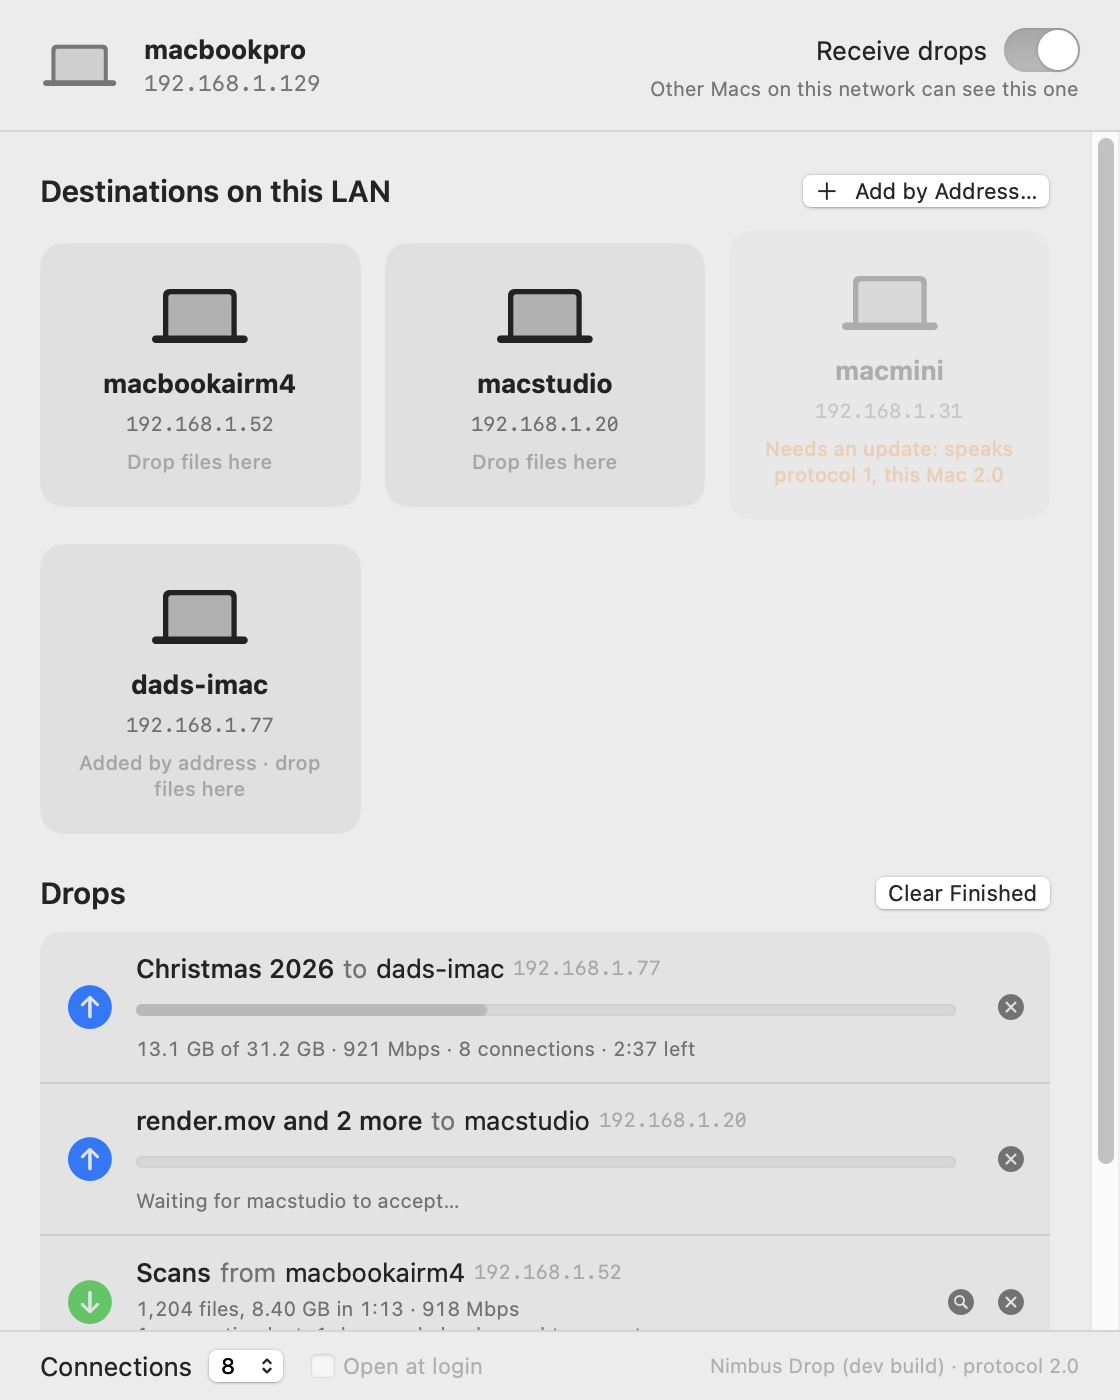
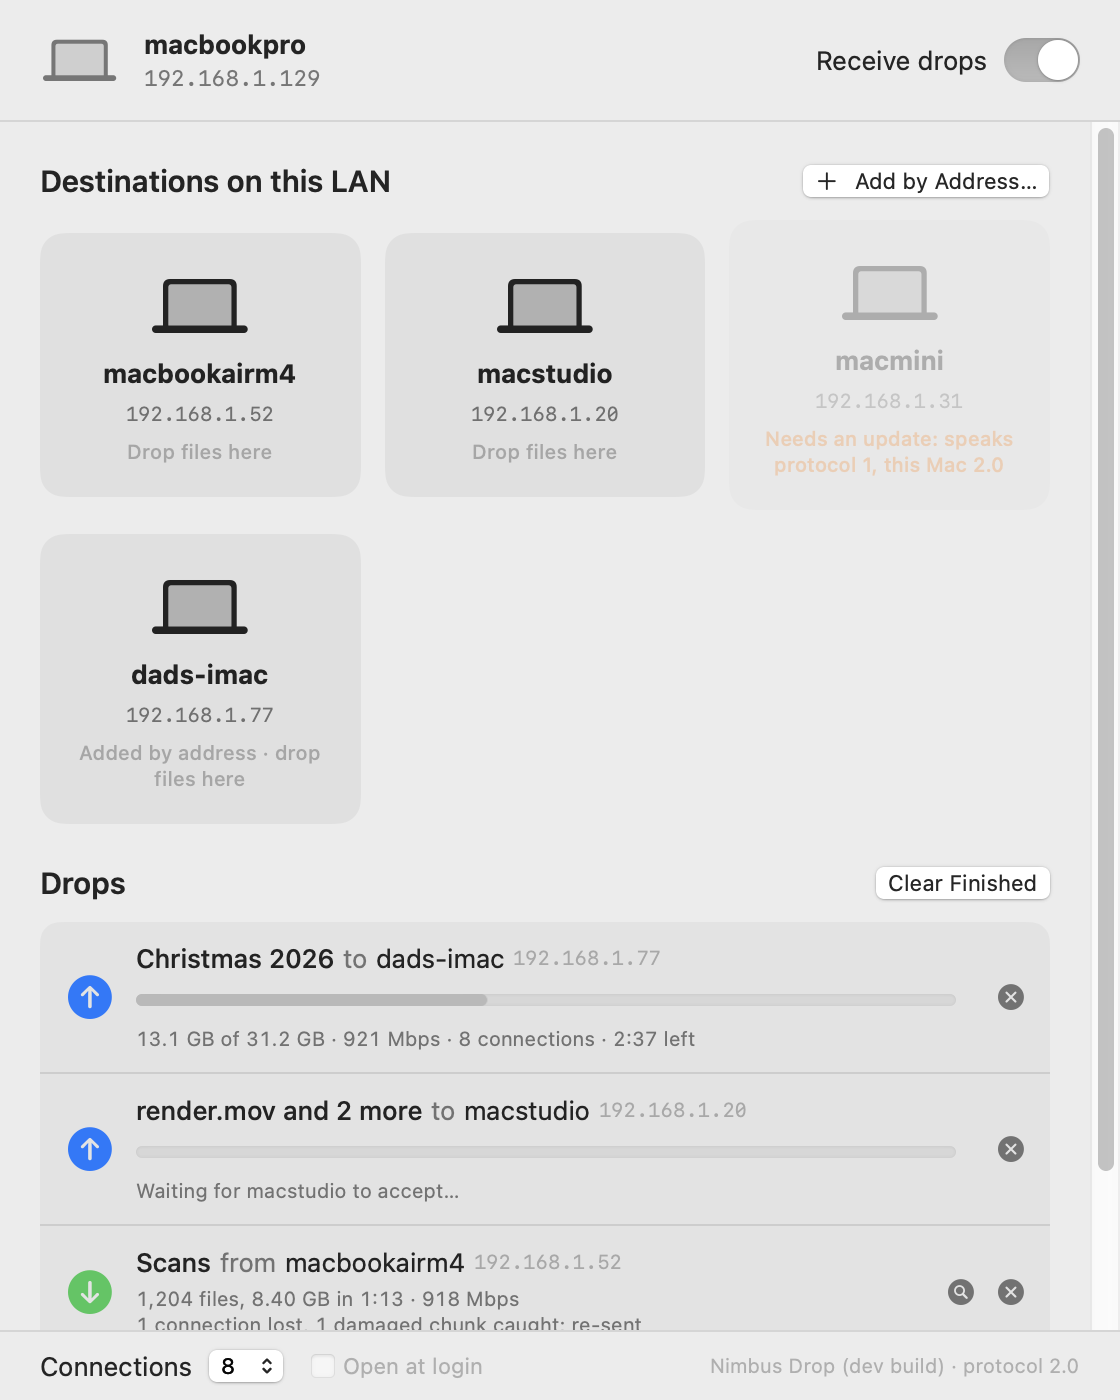
Window: no caption under Receive drops while it is on

diff --git a/Sources/NimbusDrop/MainWindow.swift b/Sources/NimbusDrop/MainWindow.swift
@@ -59,8 +59,10 @@ struct MainView: View {
             VStack(alignment: .trailing, spacing: 2) {
                 Toggle("Receive drops", isOn: Binding(get: { model.receiving }, set: { model.setReceiving($0) }))
                     .toggleStyle(.switch)
-                Text(model.receiving ? "Other Macs on this network can see this one" : "Hidden: nobody can send to this Mac")
-                    .font(.caption).foregroundStyle(.secondary)
+                // Said only when it is off, which is the state that explains a surprise.
+                if !model.receiving {
+                    Text("Hidden: nobody can send to this Mac").font(.caption).foregroundStyle(.secondary)
+                }
             }
         }
         .padding(.horizontal, 20).padding(.vertical, 14)
